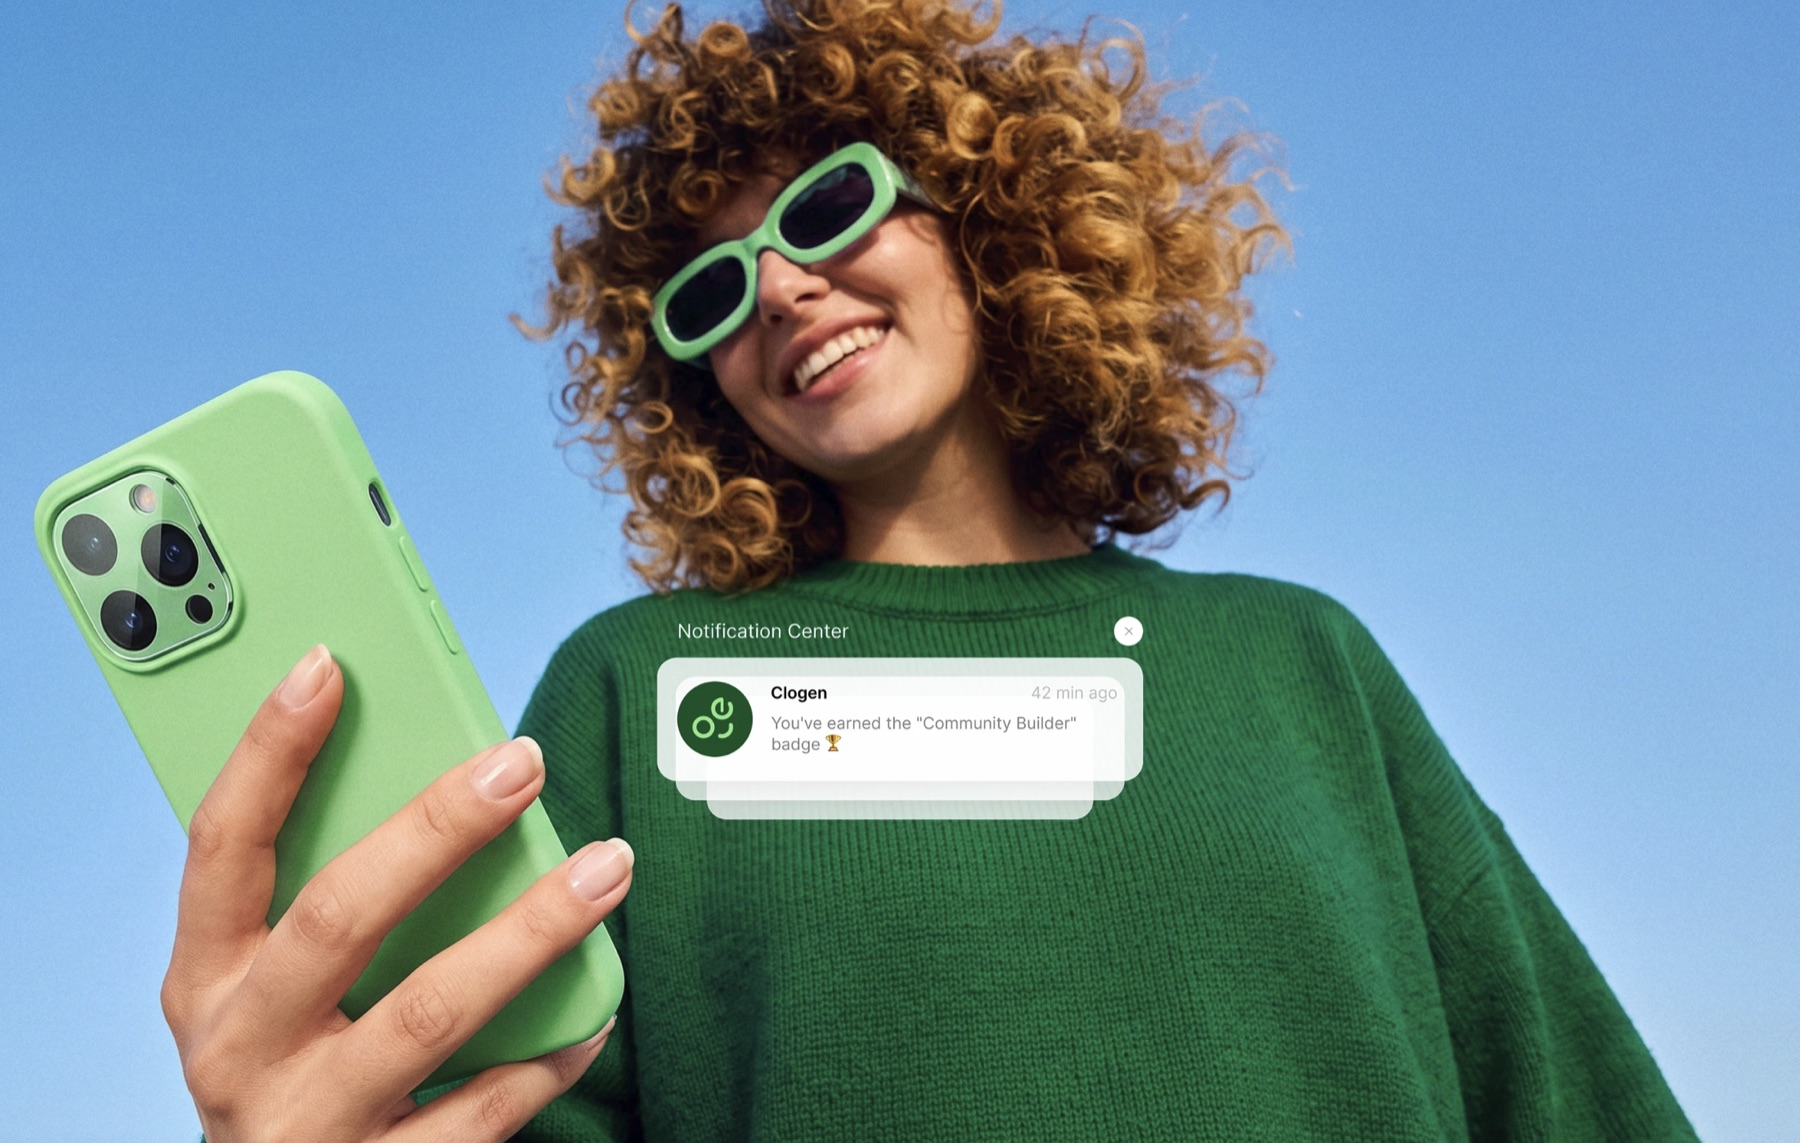
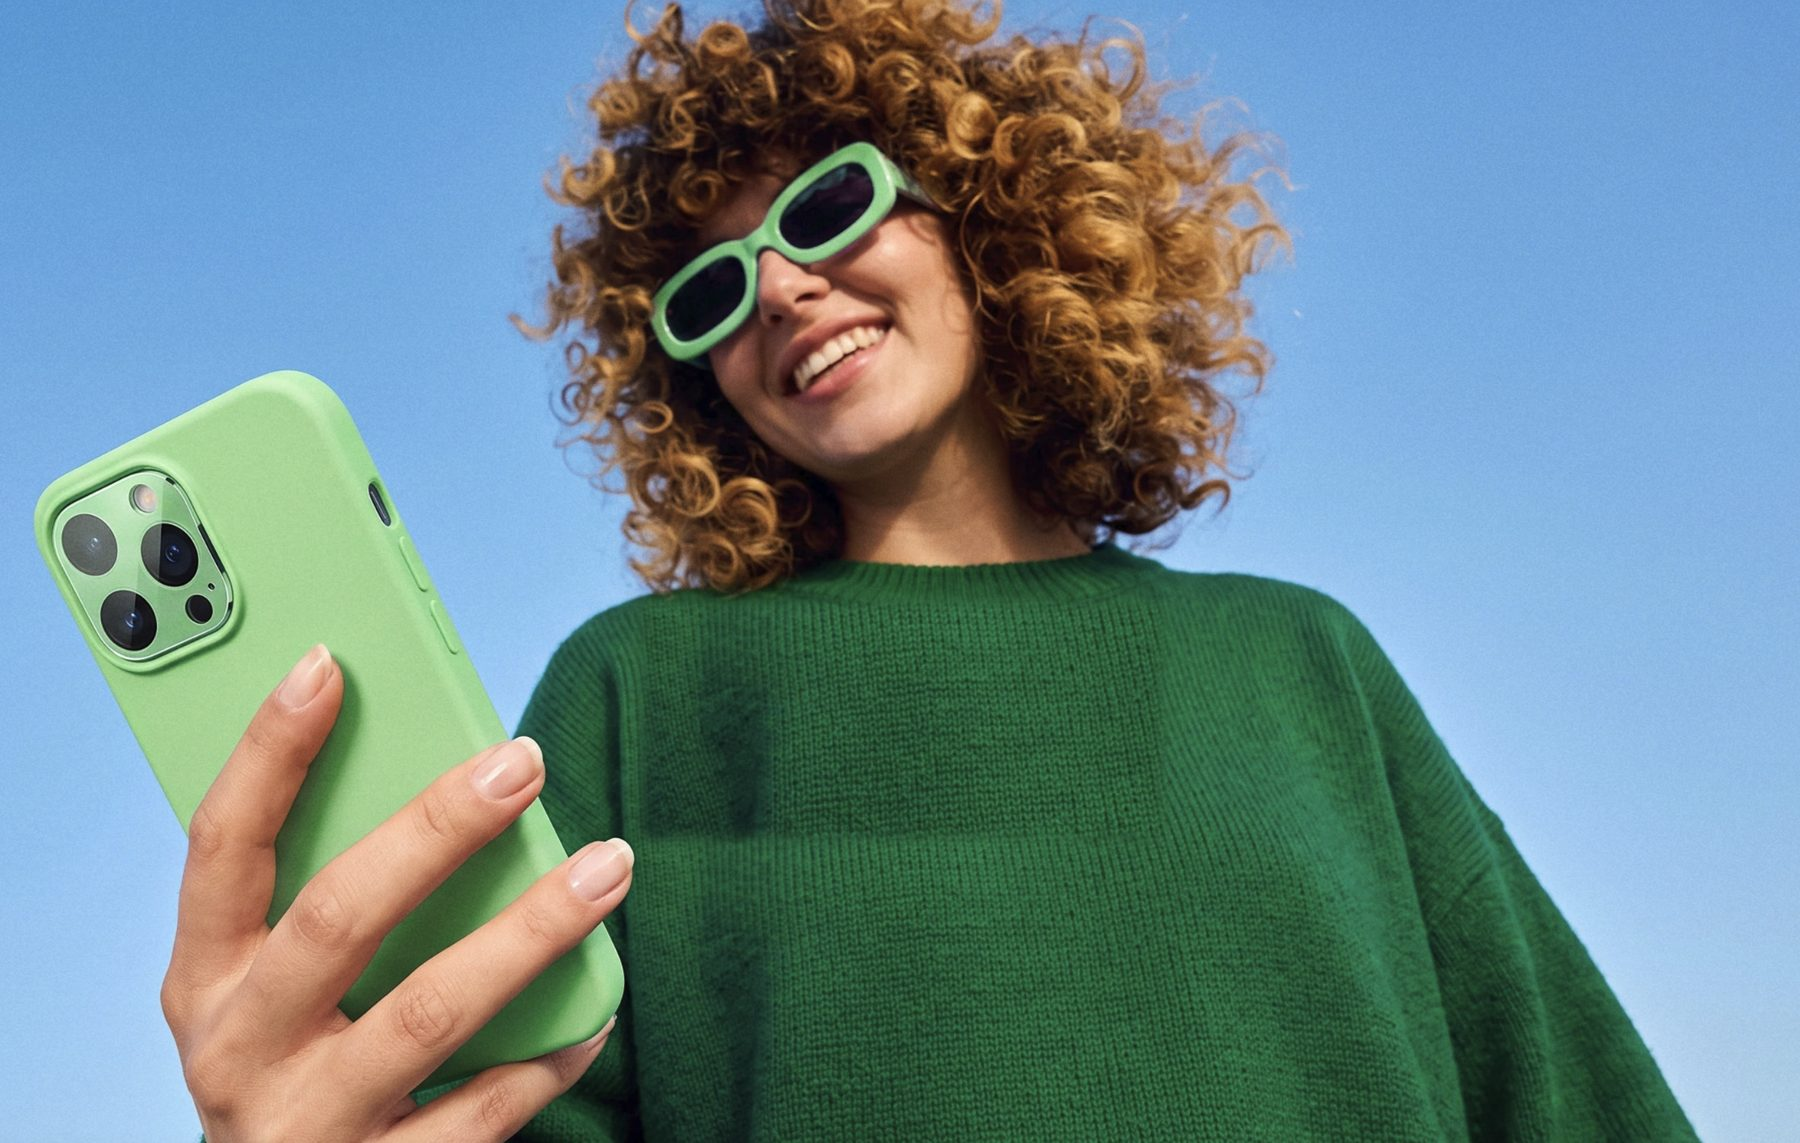
Why-makers: frosted RankBid notification, original one painted out of the photo

Changed region(s): [[0.3422, 0.5206, 0.6533, 0.7349]]

diff --git a/components/HomePage.tsx b/components/HomePage.tsx
@@ -1061,8 +1061,7 @@ export default function Home() {
         <section className="relative overflow-hidden bg-gradient-to-br from-[#0B2545] via-[#0F3460] to-[#1a5490] text-white">
           {/* Desktop: photo covers the full height of the section, starting 40% across so the
               phone and hand show beside the copy; whatever is wider than the screen runs off
-              the right edge. Keeping the aspect ratio lets the RankBid notification sit
-              exactly over the one in the photo. */}
+              the right edge. Keeping the aspect ratio keeps the notification on her sweater. */}
           <div
             className="absolute inset-y-0 left-[40%] hidden lg:block h-full aspect-[2198/1396]"
             aria-hidden="true"
@@ -1073,17 +1072,25 @@ export default function Home() {
               className="h-full w-full"
               style={{ maskImage: PHOTO_FADE, WebkitMaskImage: PHOTO_FADE }}
             />
-            {/* Covers the photo's original notification (another brand's) */}
-            <div className="absolute left-[35.5%] top-[52%] h-[22%] w-[29.5%] flex flex-col justify-center rounded-2xl bg-white p-4 text-[#1F2937] shadow-2xl">
-              <div className="flex items-center justify-between text-[10px] font-semibold text-gray-400">
-                <span>Notification Center</span>
-                <span>now</span>
+            {/* Frosted RankBid notification over her sweater: label + close button, then a card
+                with two fainter cards stacked beneath it */}
+            <div className="absolute left-[34%] top-[51%] w-[31%]">
+              <div className="flex items-center justify-between pl-3 pr-1">
+                <span className="text-sm font-medium text-white drop-shadow">Notification Center</span>
+                <span className="flex h-6 w-6 items-center justify-center rounded-full bg-white text-xs text-gray-500 shadow">✕</span>
               </div>
-              <div className="mt-2 flex items-center gap-2.5">
-                <span className="flex h-10 w-10 flex-shrink-0 items-center justify-center rounded-xl bg-gradient-to-br from-[#0F3460] to-[#1a5490] text-sm font-black text-white">R</span>
-                <div className="min-w-0">
-                  <p className="text-sm font-black text-[#0F3460]">RankBid</p>
-                  <p className="text-xs leading-snug text-gray-600">Your product hit <span className="font-bold text-[#059669]">#1 today</span> 🏆</p>
+              <div className="relative mt-2.5">
+                <div className="absolute inset-x-[9%] -bottom-[22px] top-4 rounded-2xl bg-white/30 backdrop-blur-sm" />
+                <div className="absolute inset-x-[4%] -bottom-[11px] top-2 rounded-2xl bg-white/50 backdrop-blur-sm" />
+                <div className="relative flex items-center gap-3 rounded-2xl bg-white/85 p-3 shadow-xl backdrop-blur-md">
+                  <span className="flex h-12 w-12 flex-shrink-0 items-center justify-center rounded-full bg-gradient-to-br from-[#0B2545] to-[#1a5490] text-lg font-black text-white">R</span>
+                  <div className="min-w-0 flex-1">
+                    <div className="flex items-baseline justify-between gap-2">
+                      <p className="text-sm font-bold text-[#0B2545]">RankBid</p>
+                      <p className="text-[11px] text-gray-400">2 min ago</p>
+                    </div>
+                    <p className="mt-0.5 text-xs leading-snug text-gray-500">Your product just hit <span className="font-semibold text-[#059669]">#1 today</span> 🏆</p>
+                  </div>
                 </div>
               </div>
             </div>
